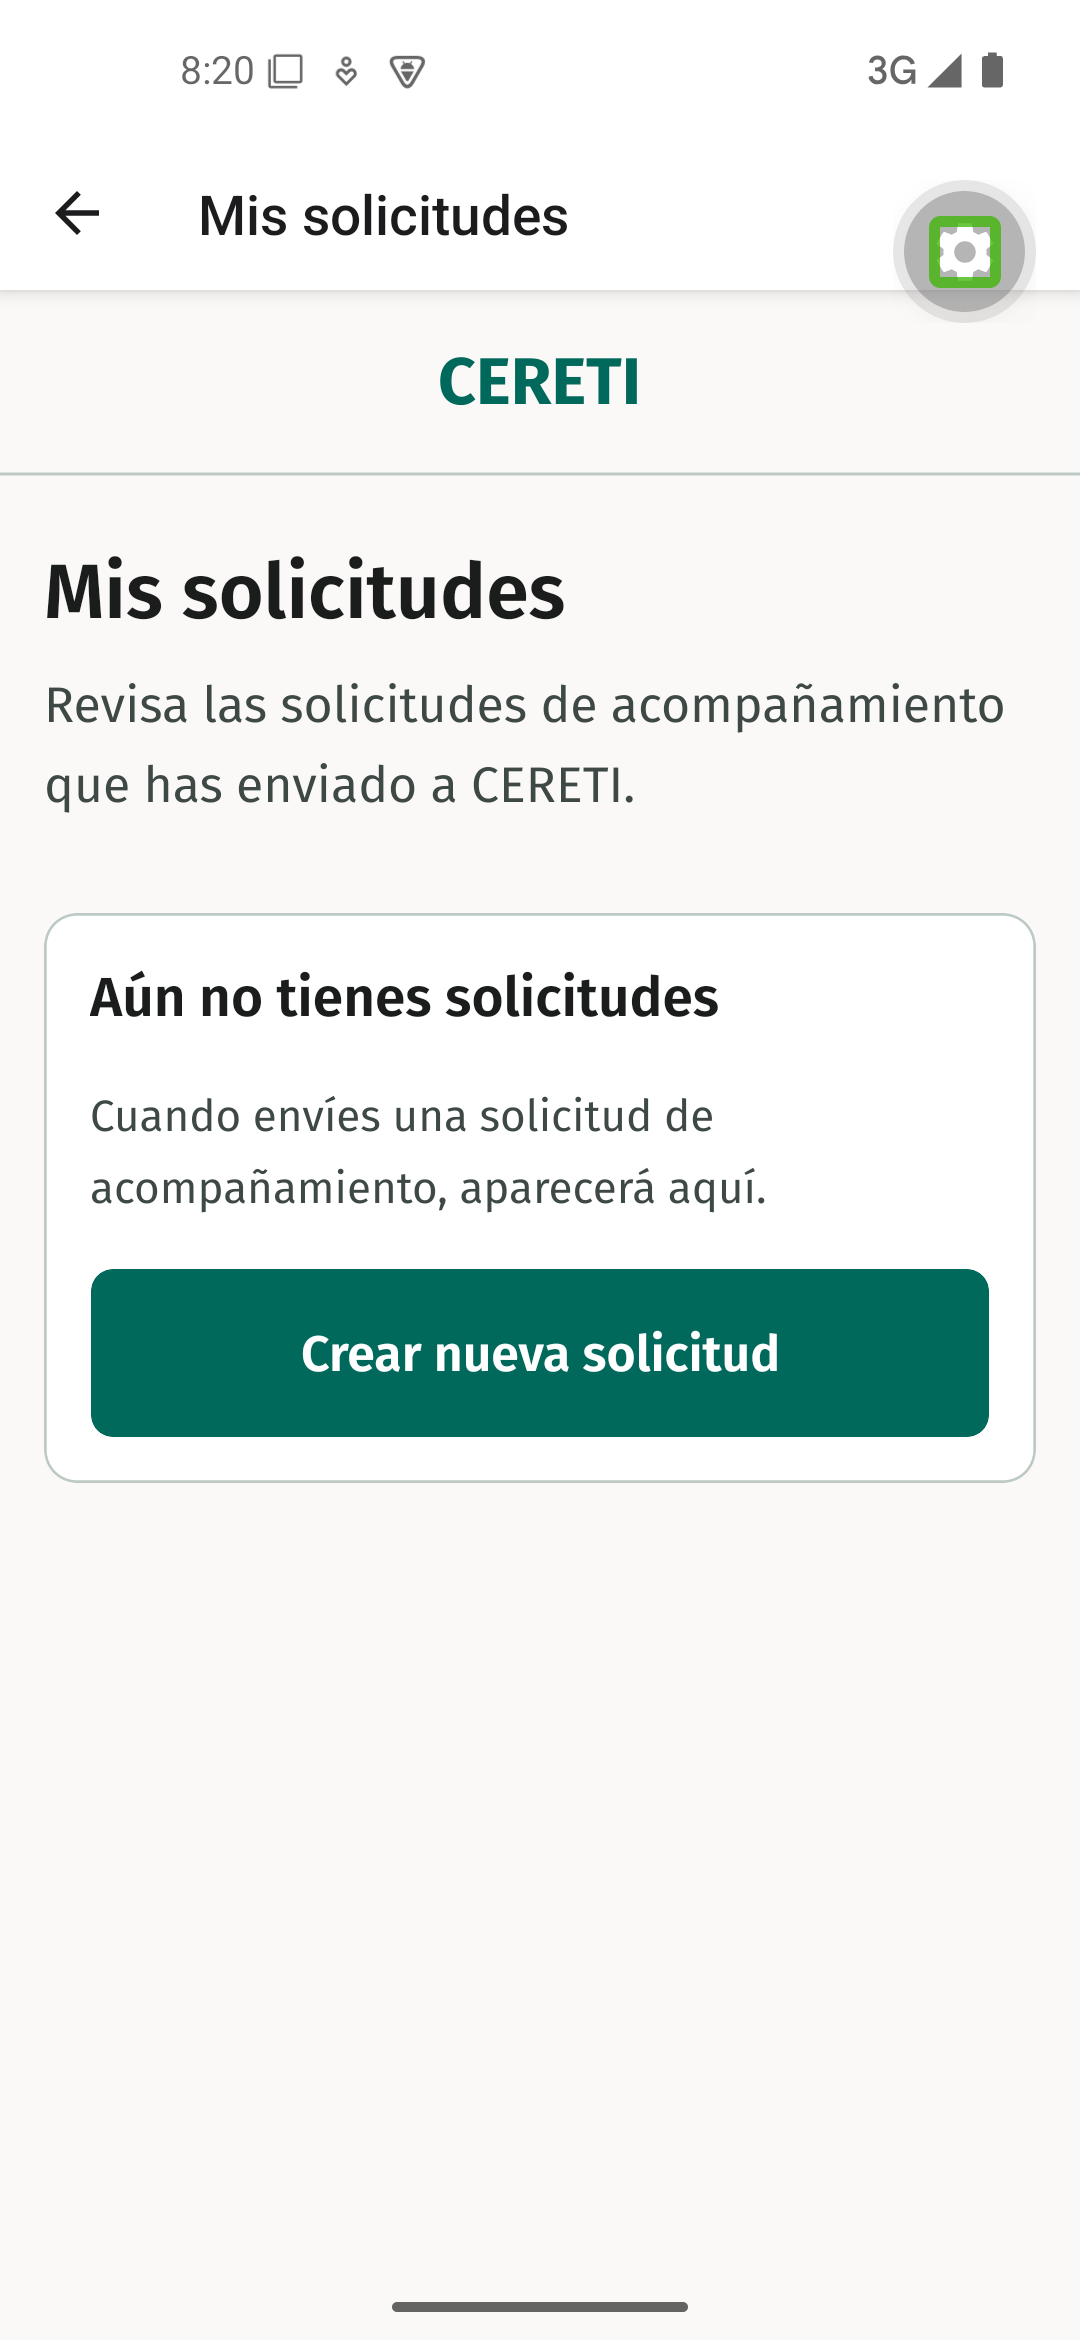
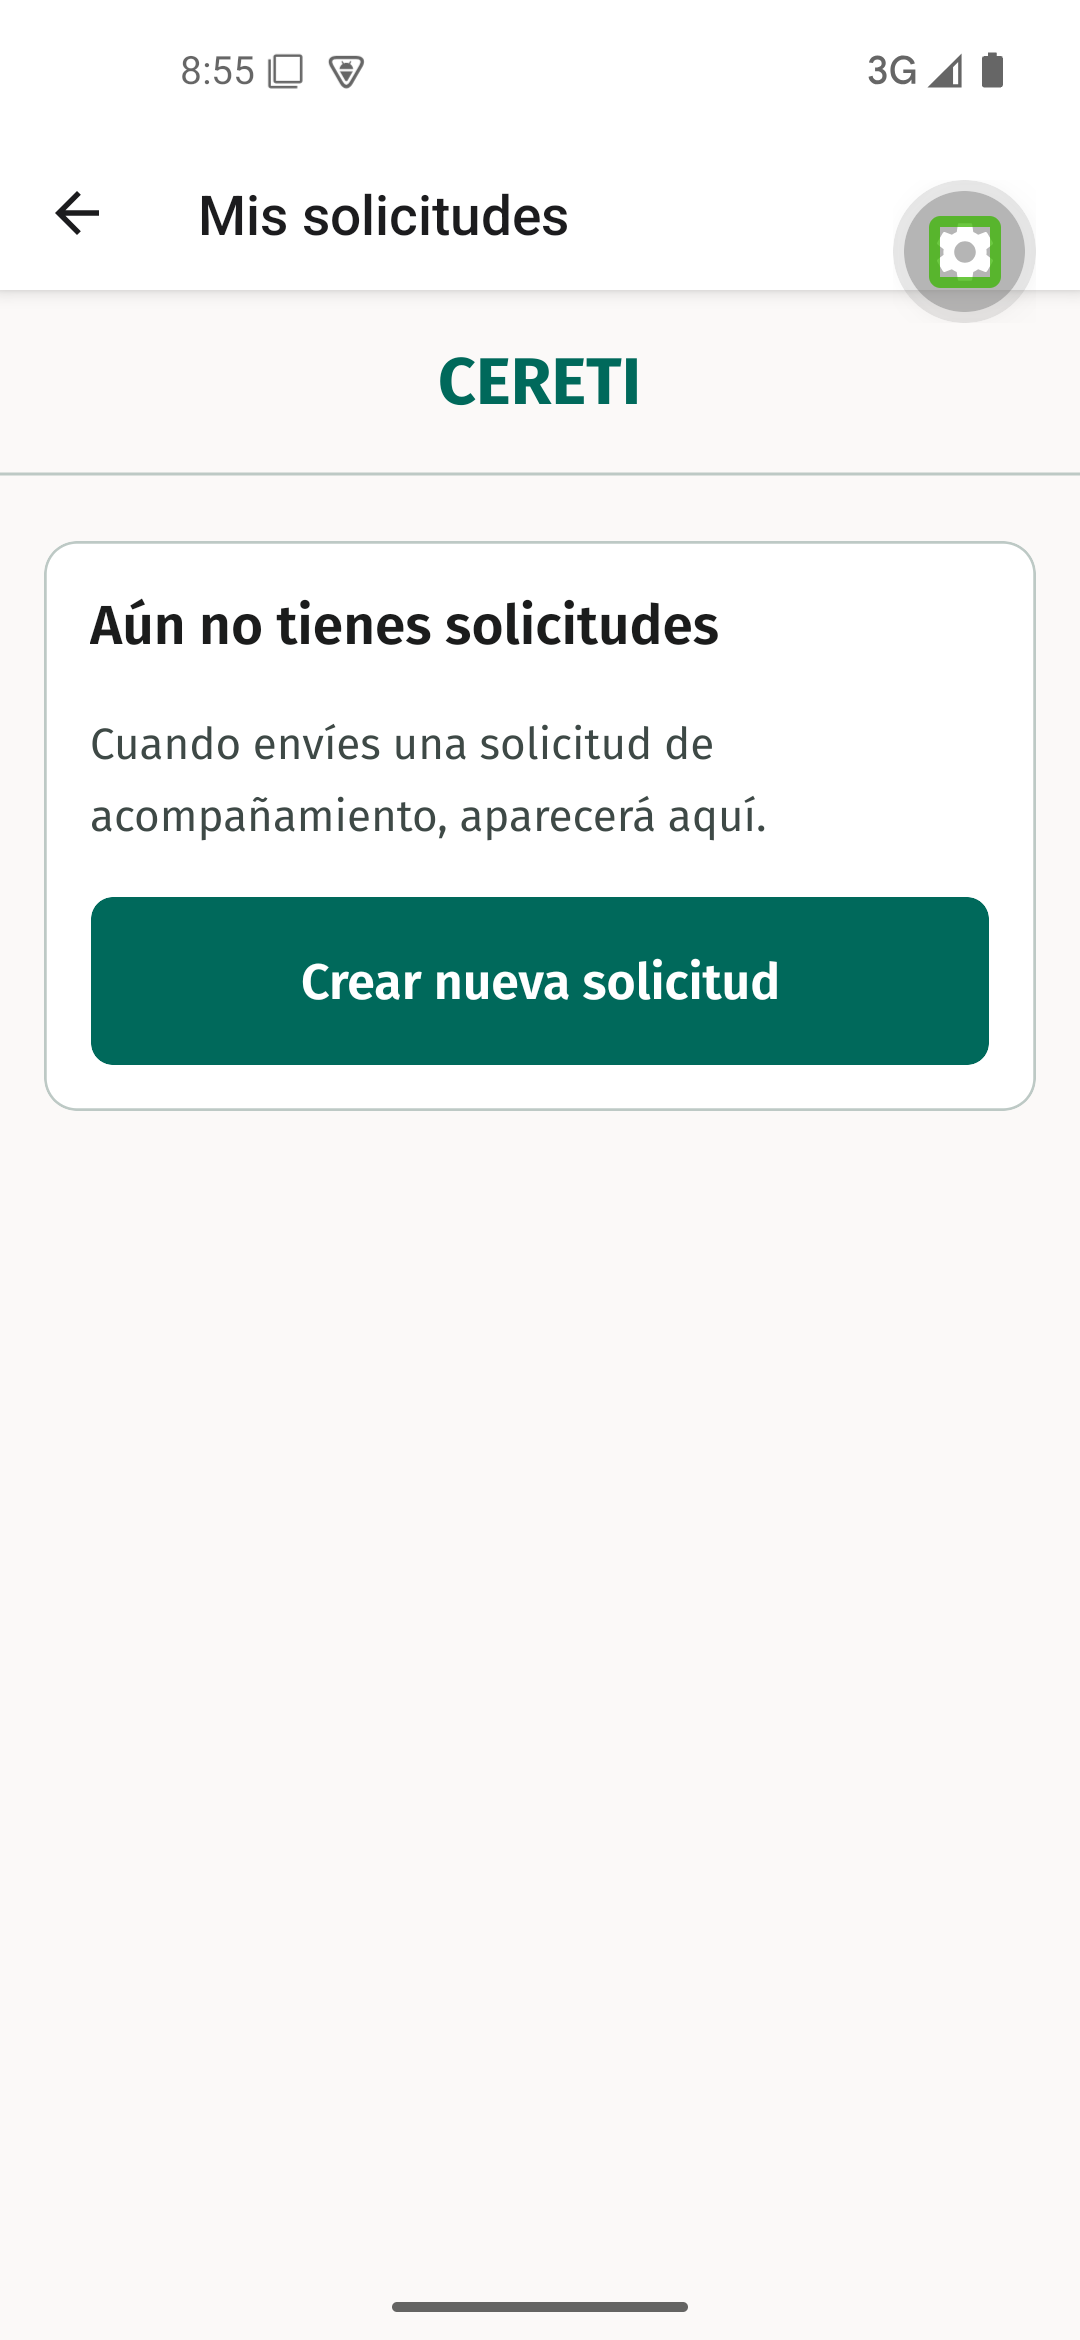
docs(mobile): actualizar evidencia de textos

diff --git a/apps/mobile/docs/evidence/ti4-19/README.md b/apps/mobile/docs/evidence/ti4-19/README.md
@@ -1,16 +1,16 @@
 # Evidencia nativa de TI4-19
 
-Recorrido ejecutado el 13 de septiembre de 2026 sobre el commit de implementación `6bf499b1d5c8dfbb109f993c95667c67843f5802`, sin cambios locales de código, en el AVD `Pixel_5_Liviano` con Android 15, API 35, y una compilación de desarrollo de Expo. Los escenarios se activaron únicamente mediante `EXPO_PUBLIC_STUDENT_AREA_DEMO_MODE` y `EXPO_PUBLIC_STUDENT_AREA_DELAY_MS`.
+Recorrido ejecutado el 13 de septiembre de 2026 sobre el commit de implementación `a9f959e0be1c5c257e0a5b8d005c9135a9f4f722`, sin cambios locales de código, en el AVD `Pixel_5_Liviano` con Android 15, API 35, y una compilación de desarrollo de Expo. Los escenarios se activaron únicamente mediante `EXPO_PUBLIC_STUDENT_AREA_DEMO_MODE` y `EXPO_PUBLIC_STUDENT_AREA_DELAY_MS`.
 
 ## Carga
 
-Con el modo `success` y una demora de 5000 ms, el acceso desde **Inicio de Estudiante** mostró el indicador y el mensaje de carga antes de presentar los datos.
+Con el modo `success` y una demora de 5000 ms, el acceso desde **Inicio de Estudiante** mostró un único mensaje de carga junto al indicador antes de presentar los datos.
 
 ![Estado de carga](./loading.png)
 
 ## Éxito y navegación al detalle
 
-El listado presentó dos solicitudes del snapshot del estudiante. La jerarquía de accesibilidad expuso cada tarjeta como una única acción con referencia, necesidad y fecha de envío. Al activar la primera tarjeta se abrió su detalle y se comprobaron la referencia, las fechas de envío y actualización, la necesidad, el resultado esperado, las necesidades de acceso, la modalidad y el canal accesible preferido.
+El listado presentó dos solicitudes de la proyección del estudiante sin exponer sus identificadores internos. La jerarquía de accesibilidad presentó cada tarjeta como una única acción con necesidad y fecha de envío. Al activar la primera tarjeta se abrió su detalle y se comprobaron la referencia `SOL-DEMO-001`, las fechas de envío y actualización, la necesidad, el resultado esperado, las necesidades de acceso, la modalidad y el medio preferido para recibir información.
 
 ![Listado con solicitudes](./success.png)
 
@@ -28,10 +28,10 @@ Con el modo `empty`, el listado mostró una explicación y la acción **Crear nu
 
 ## Error y reintento
 
-Con el modo `error`, el listado presentó un error recuperable y la acción **Reintentar**. La acción volvió a ejecutar la lectura y conservó el error esperado del escenario configurado.
+Con el modo `error`, el listado presentó un único mensaje de error y la acción **Reintentar**. La acción volvió a ejecutar la lectura y conservó el error esperado del escenario configurado.
 
 ![Estado de error](./error.png)
 
 ## Resultado
 
-El recorrido Listado → Detalle y los estados de carga, vacío, error y éxito quedaron aprobados en el emulador. La comprobación automatizada complementaria cubre el reintento, la recuperación ante identificadores desconocidos y la protección de rutas por rol. El commit posterior que incorpora este registro modifica solo documentación y evidencia.
+El recorrido Listado → Detalle y los estados de carga, vacío, error y éxito quedaron aprobados en el emulador. La jerarquía nativa mostró una sola aparición de `Mis solicitudes` y una sola de `Detalle de solicitud`; no aparecieron títulos internos duplicados. La comprobación automatizada complementaria cubre el reintento, la recuperación ante identificadores desconocidos y la protección de rutas por rol. El commit posterior que incorpora este registro modifica solo documentación y evidencia.

diff --git a/apps/mobile/README.md b/apps/mobile/README.md
@@ -158,9 +158,9 @@ Las pruebas `student-request.test.tsx` y `student-request-demo-mode.test.tsx` ej
 
 ## Listado y detalle de solicitudes: TI4-19
 
-Desde el inicio del Estudiante, abrir **Mis solicitudes**. El listado muestra únicamente la proyección ficticia entregada por `StudentAreaReader`; cada tarjeta abre el detalle de su solicitud. El detalle presenta la referencia, fechas, necesidad, resultado esperado, necesidades de acceso, modalidad y canal accesible preferido. La representación accesible del estado pertenece a TI4-31 y el acompañamiento resultante a TI4-35.
+Desde el inicio del Estudiante, abre **Mis solicitudes**. El listado muestra sus solicitudes y cada tarjeta abre el detalle correspondiente. El detalle presenta la referencia, las fechas, la necesidad, el resultado esperado, las necesidades de acceso, la modalidad y el medio preferido para recibir información. La representación accesible del estado pertenece a TI4-31 y el acompañamiento resultante a TI4-35.
 
-La pantalla cubre carga, listado vacío, error con reintento y éxito. Para demostrar los escenarios del adapter mock, reinicia Expo con una de estas configuraciones:
+La implementación obtiene una proyección ficticia mediante `StudentAreaReader`. Para comprobar la carga, el listado vacío, el error con reintento y el éxito, reinicia Expo con una de estas configuraciones:
 
 ```sh
 EXPO_PUBLIC_STUDENT_AREA_DEMO_MODE=success EXPO_PUBLIC_STUDENT_AREA_DELAY_MS=1200 bun run mobile:start --clear
@@ -168,7 +168,7 @@ EXPO_PUBLIC_STUDENT_AREA_DEMO_MODE=empty bun run mobile:start --clear
 EXPO_PUBLIC_STUDENT_AREA_DEMO_MODE=error bun run mobile:start --clear
 ```
 
-Las variables sólo controlan datos ficticios y no contienen secretos. Después de cambiar una variable `EXPO_PUBLIC_`, recarga completamente la aplicación. Un identificador de detalle que no pertenezca al snapshot del estudiante muestra una recuperación controlada y no consulta datos de otro estudiante.
+Las variables sólo controlan datos ficticios y no contienen secretos. Después de cambiar una variable `EXPO_PUBLIC_`, recarga completamente la aplicación. Un identificador que no pertenezca a la proyección del estudiante muestra una recuperación controlada y no consulta datos de otro estudiante.
 
 La evidencia nativa del recorrido se registra en [docs/evidence/ti4-19](./docs/evidence/ti4-19/README.md).
 

diff --git a/docs/superpowers/specs/2026-09-13-ti4-19-texto-sin-redundancias-design.md b/docs/superpowers/specs/2026-09-13-ti4-19-texto-sin-redundancias-design.md
@@ -28,7 +28,7 @@ Se descartan dos alternativas. Ocultar el header nativo obligaría a reconstruir
 | Referencias ficticias | `SOL-DEMO-001` y `SOL-DEMO-002` |
 | Canal preferido | `Correo institucional con texto accesible` |
 
-El botón nativo de regreso expondrá una etiqueta en español a las tecnologías de asistencia.
+En iOS y web, el botón nativo de regreso usará el título `Volver`. En Android, su descripción accesible seguirá el idioma configurado en el sistema operativo.
 
 ## Implementación
 
